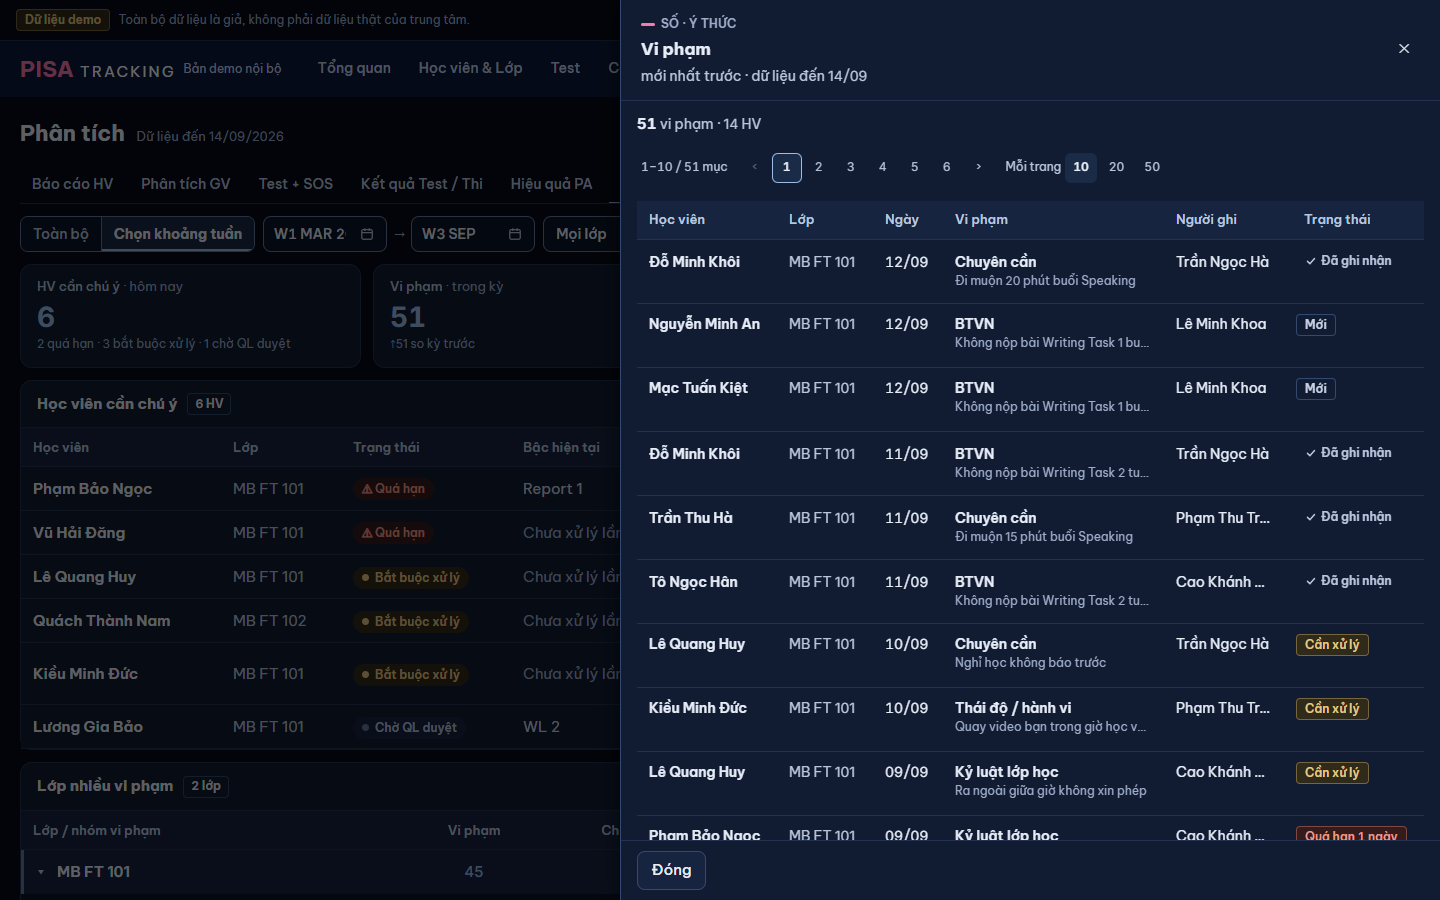
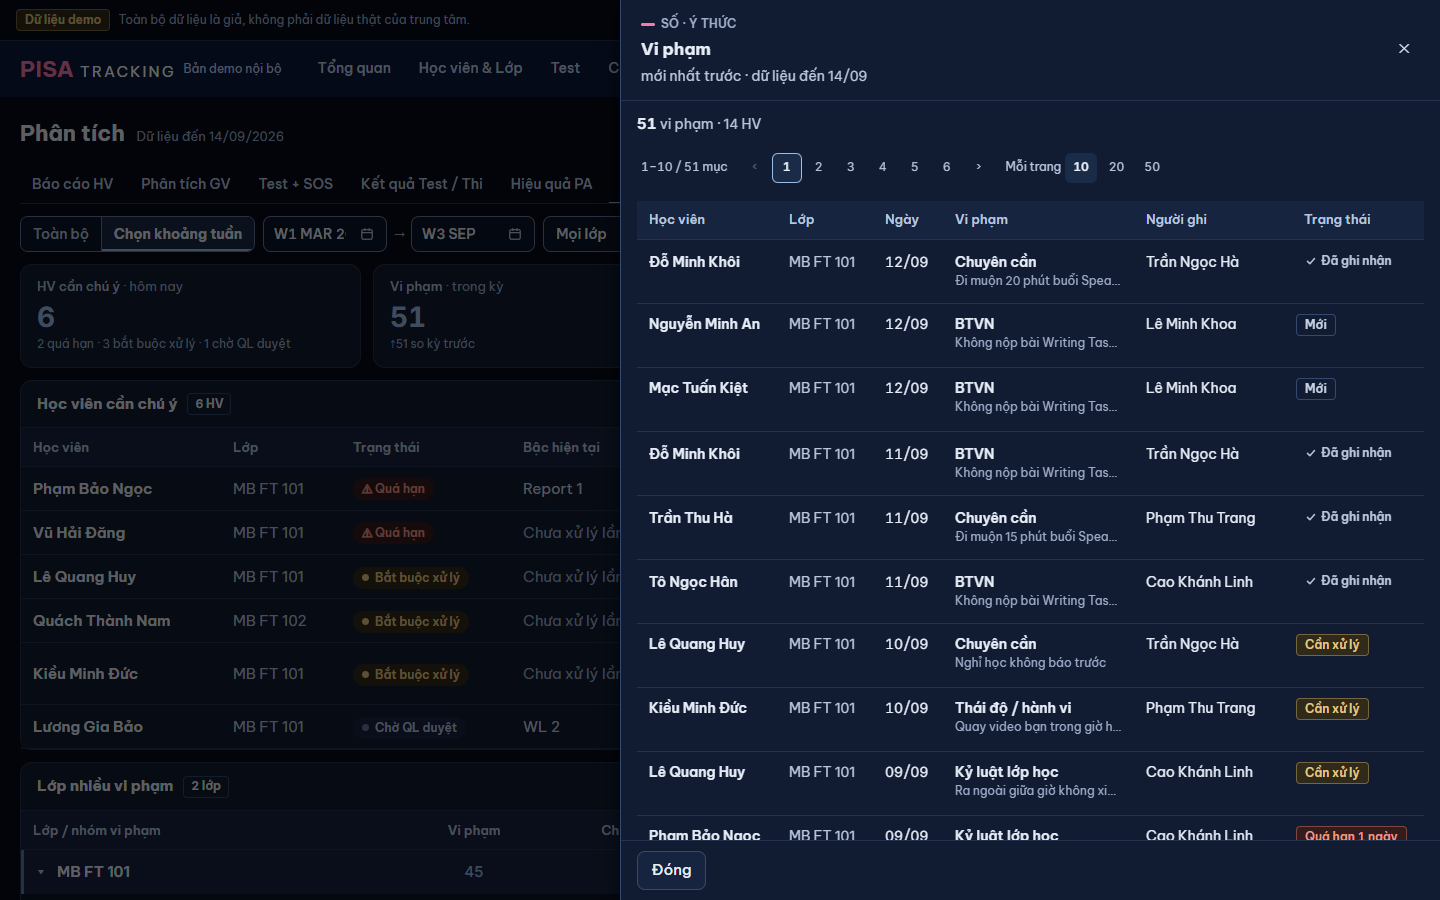
PT-VP-PA: cột Người ghi 150 — tên đọc đủ (PTA rà #984); chụp lại a4

diff --git a/web/src/ui/BangLuotPanel.tsx b/web/src/ui/BangLuotPanel.tsx
@@ -251,9 +251,9 @@ export function BangLuotPanel({ tieuDe, loai = t('SỐ · TEST + SOS'), data, lo
   const tatVl = loc.flatMap((r) => (r.viPhamLop ? [{ ...r.viPhamLop, id: r.id }] : []));
   type HV = (typeof tatV)[number]; type HVe = (typeof tatVe)[number]; type HVl = (typeof tatVl)[number];
   const cotV: DinhNghiaCot[] = [
-    /* Panel 820, ô 14 (`day`): 140 + 96 + 70 + Vi phạm (phần còn lại ≈ 222) + 120 + 140. */
+    /* Panel 820, ô 14 (`day`): 140 + 96 + 70 + Vi phạm (phần còn lại ≈ 192, mô tả cắt một dòng có title) + 150 + 140 — tên Người ghi đọc đủ (PTA rà #984). */
     { key: 'ten', nhan: t('Học viên'), kieu: 'ten', rong: 140 }, { key: 'lop', nhan: t('Lớp'), kieu: 'chu', rong: 96 }, { key: 'ngay', nhan: t('Ngày'), kieu: 'chu', rong: 70 },
-    { key: 'vp', nhan: t('Vi phạm'), kieu: 'chu', linhHoat: true }, { key: 'nguoi', nhan: t('Người ghi'), kieu: 'chu', rong: 120 }, { key: 'tt', nhan: t('Trạng thái'), kieu: 'chip', rong: 140 },
+    { key: 'vp', nhan: t('Vi phạm'), kieu: 'chu', linhHoat: true }, { key: 'nguoi', nhan: t('Người ghi'), kieu: 'chu', rong: 150 }, { key: 'tt', nhan: t('Trạng thái'), kieu: 'chip', rong: 140 },
   ];
   const oV = (h: HV, c: DinhNghiaCot): ReactNode => {
     if (c.key === 'ten') return lkHv(h.studentId, h.ten);
